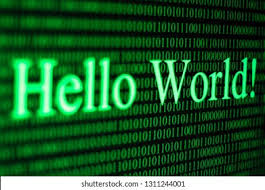
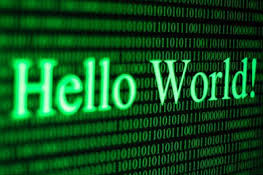
fixed httml, css, and cropped jpg

diff --git a/index.html b/index.html
@@ -9,9 +9,9 @@
 	<div class="background">
 		<div class="transbox">
 			<h1>Hello world!</h1>
-			<div><img src="img_hellow_world.jpg"alt="Hello World from Space"
-				style="width:100%;max-width:960px">
-			</div>
+			<div>
+				<img src="img_hello_world.jpg" alt="Hello World from Space" style="width:25%;max-width:960px"
+                        </div>
 			<p>This is the first file in my new Git Repo.</p>
 			<p>A newe line is hereby added to our file</p>
 		</div>

diff --git a/bluestyle.css b/bluestyle.css
@@ -1,6 +1,7 @@
 
 body {
-background-color: lightblue;
+background-color: lightgreen;
+text-align: center;
 }
 
 h1 {
@@ -19,11 +20,13 @@ div.transbox {
   background-color: #ffffff;
   border: 1px solid black;
   opacity: 0.6;
+  justify-content: center;
 }
 
 div.transbox p {
   margin: 5%;
   font-weight: bold;
   color: #000000;
+  justify-content: center;
 }
 </style>
